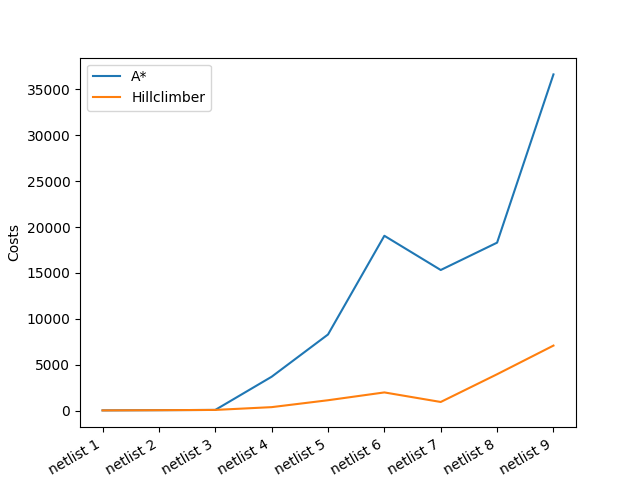
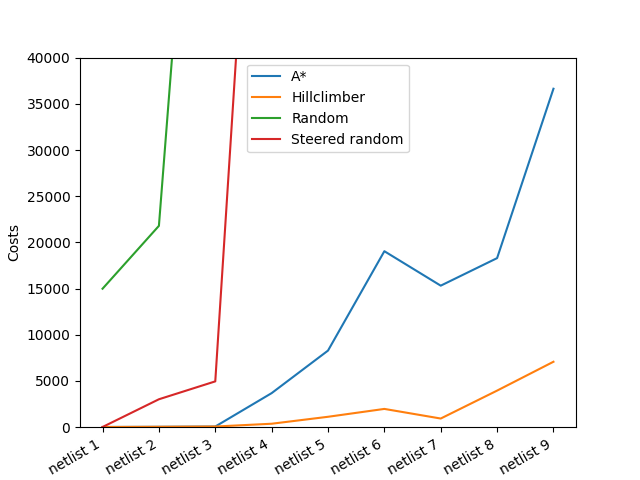
PROCESS

diff --git a/main.py b/main.py
@@ -44,18 +44,23 @@ if __name__ == "__main__":
 
 
     # TEMP for making a graph
-    netlist = ['netlist 1', 'netlist 2', 'netlist 3', 'netlist 4', 'netlist 5', 'netlist 6', 'netlist 7', 'netlist 8', 'netlist 9']
-    a_star = [22, 43, 72, 3687, 8291, 19047, 15318, 18298, 36631]
-    hillclimber = [20, 43, 72, 375, 1127, 1979, 938, 3960, 7083]
+    # netlist = ['netlist 1', 'netlist 2', 'netlist 3', 'netlist 4', 'netlist 5', 'netlist 6', 'netlist 7', 'netlist 8', 'netlist 9']
+    # a_star = [22, 43, 72, 3687, 8291, 19047, 15318, 18298, 36631]
+    # hillclimber = [20, 43, 72, 375, 1127, 1979, 938, 3960, 7083]
+    # random = [14989, 21791, 100000, 100000, 100000, 100000, 100000, 100000, 100000]
+    # steered_random = [22, 3023, 4959, 100000, 100000, 100000, 100000, 100000, 100000]
 
-    fig = plt.figure()
-    ax = fig.add_subplot(111)
+    # fig = plt.figure()
+    # ax = fig.add_subplot(111)
 
-    ax.plot(netlist, a_star, label = "A*")
-    ax.plot(netlist, hillclimber, label  = "Hillclimber")
+    # ax.plot(netlist, a_star, label = "A*")
+    # ax.plot(netlist, hillclimber, label  = "Hillclimber")
+    # ax.plot(netlist, random, label = "Random")
+    # ax.plot(netlist, steered_random, label = "Steered random")
 
-    ax.set_ylabel('Costs')
-    plt.setp(ax.get_xticklabels(), rotation=30, ha="right")
-    ax.legend()
+    # ax.set_ylabel('Costs')
+    # ax.set_ylim(0, 40000)
+    # plt.setp(ax.get_xticklabels(), rotation=30, ha="right")
+    # ax.legend()
 
-    fig.savefig(f"./data/visualisations/costs.png")
+    # fig.savefig(f"./data/visualisations/costs.png")

diff --git a/docs/PROCESS.md b/docs/PROCESS.md
@@ -101,3 +101,4 @@
 | Name | Start-time | End-time | Description |
 | --- | --- | --- | --- |
 | Birgit | 10:30 | 15:00 | Working on deliverable deadline today | 
+| Birgit | 17:00 | 18:00 | Working on deliverable |
